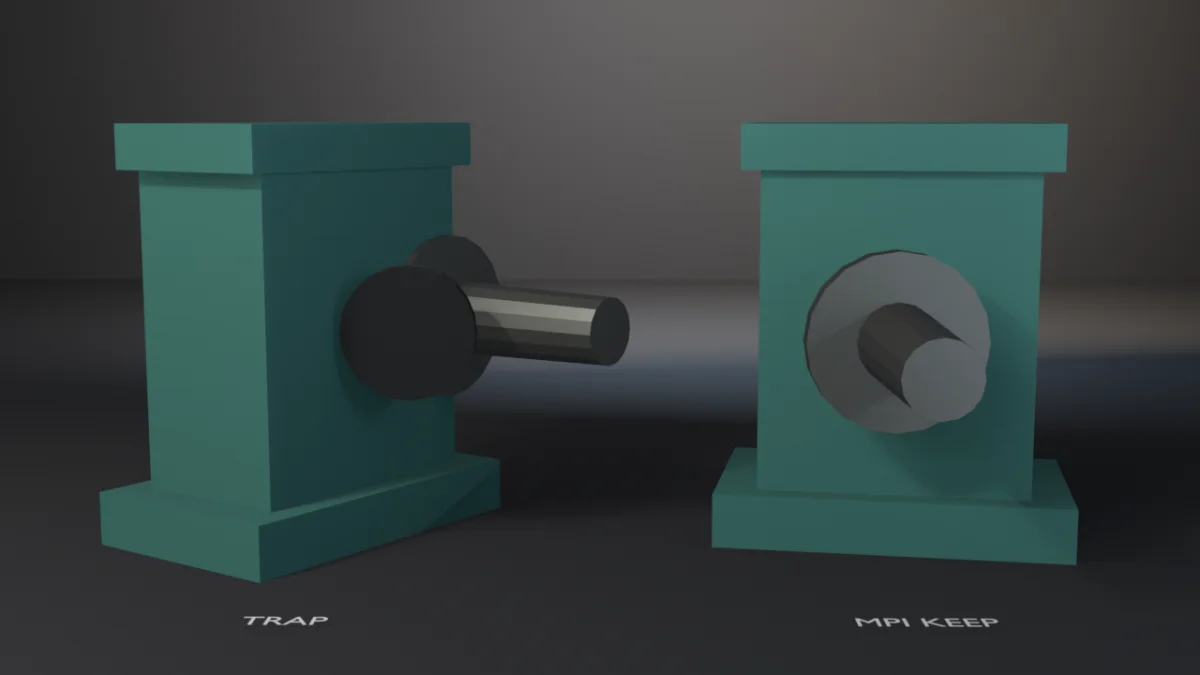
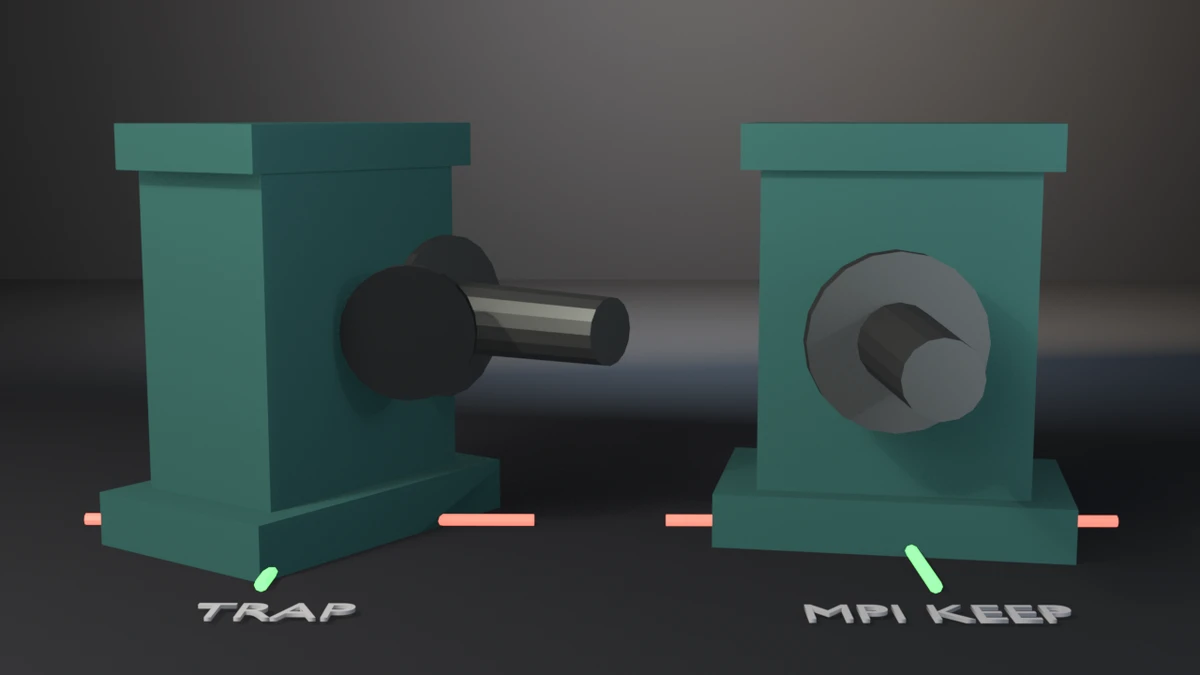
fix: prop-origin-transform presentation, visible origin axes
Render path only: the origin markers were buried in the plinth. The X and Y
stubs now cross under each base and exit it on the floor; labels are legible
at card size. Contract and exit codes unchanged on 4.5.11, 5.1.2 and 5.2.1.
Also regenerates the gallery index for all four items.

diff --git a/docs/gallery/prop-origin-transform/index.html b/docs/gallery/prop-origin-transform/index.html
@@ -16,13 +16,13 @@
   <meta property="og:image" content="https://tmhsdigital.github.io/Blender-Developer-Tools/gallery/assets/prop-origin-transform-hero.webp" />
   <meta property="og:image:width" content="1280" />
   <meta property="og:image:height" content="720" />
-  <meta property="og:image:alt" content="Two teal pedestals labelled TRAP and MPI KEEP: on the left a conduit fitting has jumped out of its socket, on the right it sits seated." />
+  <meta property="og:image:alt" content="Two teal pedestals labelled TRAP and MPI KEEP, origin axes crossing on the floor under each base: on the left a conduit fitting has jumped out of its socket, on the right it sits seated." />
   <meta property="og:site_name" content="Blender Developer Tools" />
   <meta name="twitter:card" content="summary_large_image" />
   <meta name="twitter:title" content="prop-origin-transform — Examples — Blender Developer Tools" />
   <meta name="twitter:description" content="Street pedestal origin-to-base-center + data-API scale apply + matrix_parent_inverse for a flanged conduit accessory. After bake: scale (1,1,1), local min.z==0, world AABB unchanged. Bare parent jumps the accessory off an empty mount socket; MPI keeps it seated." />
   <meta name="twitter:image" content="https://tmhsdigital.github.io/Blender-Developer-Tools/gallery/assets/prop-origin-transform-hero.webp" />
-  <meta name="twitter:image:alt" content="Two teal pedestals labelled TRAP and MPI KEEP: on the left a conduit fitting has jumped out of its socket, on the right it sits seated." />
+  <meta name="twitter:image:alt" content="Two teal pedestals labelled TRAP and MPI KEEP, origin axes crossing on the floor under each base: on the left a conduit fitting has jumped out of its socket, on the right it sits seated." />
   <style>
     /* fonts are deployed by the landing build (docs/fonts/) */
     @font-face { font-family: 'Barlow Condensed'; font-weight: 600; font-display: swap;
@@ -268,8 +268,8 @@
     <p>Street pedestal origin-to-base-center + data-API scale apply + matrix_parent_inverse for a flanged conduit accessory. After bake: scale (1,1,1), local min.z==0, world AABB unchanged. Bare parent jumps the accessory off an empty mount socket; MPI keeps it seated.</p>
   </header>
   <main id="main">
-    <button class="detail-hero" id="heroZoom" type="button" aria-label="View full size: Two teal pedestals labelled TRAP and MPI KEEP: on the left a conduit fitting has jumped out of its socket, on the right it sits seated.">
-      <img src="../assets/prop-origin-transform-hero.webp" alt="Two teal pedestals labelled TRAP and MPI KEEP: on the left a conduit fitting has jumped out of its socket, on the right it sits seated." width="1280" height="720" />
+    <button class="detail-hero" id="heroZoom" type="button" aria-label="View full size: Two teal pedestals labelled TRAP and MPI KEEP, origin axes crossing on the floor under each base: on the left a conduit fitting has jumped out of its socket, on the right it sits seated.">
+      <img src="../assets/prop-origin-transform-hero.webp" alt="Two teal pedestals labelled TRAP and MPI KEEP, origin axes crossing on the floor under each base: on the left a conduit fitting has jumped out of its socket, on the right it sits seated." width="1280" height="720" />
     </button>
     <p class="zoom-hint">Rendered headless by the example itself — click to zoom.</p>
     <div class="callout"><span class="tag">witnesses</span> Bare child.parent = parent teleports accessories off their mounts; skipping view_layer.update() before matrix_world, or leaving non-uniform scale / centered origin, breaks engine ingest placement.</div>
@@ -285,7 +285,7 @@
 <ul><li><strong>Stale <code>matrix_world</code>.</strong> After a location edit, <code>matrix_world</code> is unchanged until <code>view_layer.update()</code> (same half of the orrery contract).</li><li><strong>Scale apply via data API.</strong> Non-uniform scale baked into verts; <code>obj.scale == (1,1,1)</code> exactly afterward.</li><li><strong>Origin at base center.</strong> Local bbox <code>min.z == 0</code>, XY centered; world AABB delta across the bake is <strong>0</strong> (gate <code>1e-5</code>).</li><li><strong>Bare-parent trap.</strong> Parenting the accessory without MPI jumps it (~0.43 m measured); setting <code>matrix_parent_inverse</code> restores world location (err ~3e-8).</li></ul>
 <p><strong>What each check catches on failure:</strong> skipping scale apply leaves non-identity scale; skipping origin bake leaves <code>min.z ≈ -0.756</code>; skipping MPI leaves the accessory teleported.</p>
 <p><strong>Version witness:</strong> byte-identical numbers on Blender 4.5.11 LTS and 5.1.2.</p>
-<p>The render is a dual panel: left <strong>TRAP</strong> (bare parent — flanged conduit teleports off a deep shadowed mount socket) vs right <strong>MPI KEEP</strong> (same metal fitting seated in the socket), with emissive origin markers at each pedestal&#x27;s base. Accessory and pedestal stay in one material family so displacement — not color — carries the proof. Check closed forms are unchanged.</p>
+<p>The render is a dual panel: left <strong>TRAP</strong> (bare parent — flanged conduit teleports off a deep shadowed mount socket) vs right <strong>MPI KEEP</strong> (same metal fitting seated in the socket), with emissive origin markers at each pedestal&#x27;s base. The origin is inside the plinth, so the red X and green Y stubs are centred on it and run 1.7 m along the floor, exiting the plinth on both sides: where they cross, under the base, is the origin. The first cut drew 0.28 m stubs from the origin outward, all buried, and 0.11 m labels that vanished at card size; the labels are 0.21 m now. Accessory and pedestal stay in one material family so displacement — not color — carries the proof. Check closed forms are unchanged.</p>
 <h2>Run</h2>
 <pre><code>blender --background --python prop_origin_transform.py --
 blender --background --python prop_origin_transform.py -- --skip-mpi
@@ -670,7 +670,13 @@ JUMP_MIN = <span class="n">0.05</span>
 
 
 <span class="k">def</span> origin_marker(sc, loc):
-    <span class="s">&quot;&quot;&quot;Small emissive triad at the object origin — scene evidence, not a light.&quot;&quot;&quot;</span>
+    <span class="s">&quot;&quot;&quot;Emissive triad at the object origin — scene evidence, not a light.
+
+    The origin sits at the base centre, inside the plinth, so a bead alone is
+    buried. The X and Y stubs are centred on it and run long enough to exit
+    the plinth on both sides along the floor: where they cross, under the
+    pedestal, is the origin.
+    &quot;&quot;&quot;</span>
     mat = make_material(
         <span class="s">&quot;OriginMark&quot;</span>, (<span class="n">1.0</span>, <span class="n">0.55</span>, <span class="n">0.1</span>), rough=<span class="n">0.35</span>, metallic=<span class="n">0.0</span>,
         emit=(<span class="n">1.0</span>, <span class="n">0.6</span>, <span class="n">0.1</span>), estr=<span class="n">2.2</span>,
@@ -687,18 +693,19 @@ JUMP_MIN = <span class="n">0.05</span>
     ob.location = loc
     sc.collection.objects.link(ob)
     <span class="c"># Axis stubs</span>
-    <span class="k">for</span> axis, rgb, rot <span class="k">in</span> (
-        (<span class="s">&quot;X&quot;</span>, (<span class="n">1.0</span>, <span class="n">0.2</span>, <span class="n">0.15</span>), (<span class="n">0</span>, math.radians(<span class="n">90</span>), <span class="n">0</span>)),
-        (<span class="s">&quot;Y&quot;</span>, (<span class="n">0.2</span>, <span class="n">1.0</span>, <span class="n">0.25</span>), (math.radians(-<span class="n">90</span>), <span class="n">0</span>, <span class="n">0</span>)),
-        (<span class="s">&quot;Z&quot;</span>, (<span class="n">0.25</span>, <span class="n">0.45</span>, <span class="n">1.0</span>), (<span class="n">0</span>, <span class="n">0</span>, <span class="n">0</span>)),
+    <span class="k">for</span> axis, rgb, rot, depth <span class="k">in</span> (
+        (<span class="s">&quot;X&quot;</span>, (<span class="n">1.0</span>, <span class="n">0.2</span>, <span class="n">0.15</span>), (<span class="n">0</span>, math.radians(<span class="n">90</span>), <span class="n">0</span>), <span class="n">1.7</span>),
+        (<span class="s">&quot;Y&quot;</span>, (<span class="n">0.2</span>, <span class="n">1.0</span>, <span class="n">0.25</span>), (math.radians(-<span class="n">90</span>), <span class="n">0</span>, <span class="n">0</span>), <span class="n">1.7</span>),
+        (<span class="s">&quot;Z&quot;</span>, (<span class="n">0.25</span>, <span class="n">0.45</span>, <span class="n">1.0</span>), (<span class="n">0</span>, <span class="n">0</span>, <span class="n">0</span>), <span class="n">0.56</span>),
     ):
         ame = bpy.data.meshes.new(<span class="s">f&quot;</span><span class="s">Axis</span>{axis}<span class="s">&quot;</span>)
         abm = bmesh.new()
         <span class="k">try</span>:
             bmesh.ops.create_cone(
-                abm, cap_ends=<span class="k">True</span>, segments=<span class="n">8</span>, radius1=<span class="n">0.015</span>, radius2=<span class="n">0.015</span>, depth=<span class="n">0.28</span>,
+                abm, cap_ends=<span class="k">True</span>, segments=<span class="n">8</span>, radius1=<span class="n">0.022</span>, radius2=<span class="n">0.022</span>, depth=depth,
             )
-            bmesh.ops.translate(abm, vec=(<span class="n">0</span>, <span class="n">0</span>, <span class="n">0.14</span>), verts=abm.verts)
+            <span class="k">if</span> axis == <span class="s">&quot;Z&quot;</span>:
+                bmesh.ops.translate(abm, vec=(<span class="n">0</span>, <span class="n">0</span>, depth / <span class="n">2.0</span>), verts=abm.verts)
             abm.to_mesh(ame)
         <span class="k">finally</span>:
             abm.free()
@@ -707,7 +714,8 @@ JUMP_MIN = <span class="n">0.05</span>
         )
         ame.materials.append(am)
         aob = bpy.data.objects.new(<span class="s">f&quot;</span><span class="s">Axis</span>{axis}<span class="s">&quot;</span>, ame)
-        aob.location = loc
+        <span class="c"># X and Y are centred on the origin, lifted one radius onto the floor</span>
+        aob.location = loc + Vector((<span class="n">0.0</span>, <span class="n">0.0</span>, <span class="n">0.022</span> <span class="k">if</span> axis != <span class="s">&quot;Z&quot;</span> <span class="k">else</span> <span class="n">0.0</span>))
         aob.rotation_euler = rot
         sc.collection.objects.link(aob)
 
@@ -717,6 +725,7 @@ JUMP_MIN = <span class="n">0.05</span>
     cu.body = text
     cu.size = size
     cu.align_x = <span class="s">&quot;CENTER&quot;</span>
+    cu.extrude = <span class="n">0.006</span>
     ob = bpy.data.objects.new(text, cu)
     ob.location = loc
     sc.collection.objects.link(ob)
@@ -729,7 +738,7 @@ JUMP_MIN = <span class="n">0.05</span>
     floor_me = bpy.data.meshes.new(<span class="s">&quot;Floor&quot;</span>)
     bm = bmesh.new()
     <span class="k">try</span>:
-        bmesh.ops.create_grid(bm, x_segments=<span class="n">1</span>, y_segments=<span class="n">1</span>, size=<span class="n">30.0</span>)
+        bmesh.ops.create_grid(bm, x_segments=<span class="n">1</span>, y_segments=<span class="n">1</span>, size=<span class="n">60.0</span>)
         bm.to_mesh(floor_me)
     <span class="k">finally</span>:
         bm.free()
@@ -858,8 +867,9 @@ JUMP_MIN = <span class="n">0.05</span>
     origin_marker(sc, Vector(left.matrix_world.translation))
     origin_marker(sc, Vector(right.matrix_world.translation))
 
-    p_trap = placard(sc, <span class="s">&quot;TRAP&quot;</span>, (<span class="n">0.15</span>, -<span class="n">1.25</span>, <span class="n">0.02</span>), size=<span class="n">0.11</span>)
-    p_keep = placard(sc, <span class="s">&quot;MPI KEEP&quot;</span>, (<span class="n">2.1</span>, -<span class="n">1.25</span>, <span class="n">0.02</span>), size=<span class="n">0.11</span>)
+    <span class="c"># Big enough to read at card size; at 0.11 they vanished in the thumbnail.</span>
+    p_trap = placard(sc, <span class="s">&quot;TRAP&quot;</span>, (<span class="n">0.1</span>, -<span class="n">1.2</span>, <span class="n">0.02</span>), size=<span class="n">0.21</span>)
+    p_keep = placard(sc, <span class="s">&quot;MPI KEEP&quot;</span>, (<span class="n">2.15</span>, -<span class="n">1.2</span>, <span class="n">0.02</span>), size=<span class="n">0.21</span>)
 
     floor, wall = build_studio(sc)
 
@@ -951,7 +961,7 @@ JUMP_MIN = <span class="n">0.05</span>
   </main>
   <dialog class="lightbox" id="lightbox" aria-label="Full-size render">
     <button class="lightbox-close" type="button" autofocus>Close</button>
-    <img src="../assets/prop-origin-transform-hero.webp" alt="Two teal pedestals labelled TRAP and MPI KEEP: on the left a conduit fitting has jumped out of its socket, on the right it sits seated." />
+    <img src="../assets/prop-origin-transform-hero.webp" alt="Two teal pedestals labelled TRAP and MPI KEEP, origin axes crossing on the floor under each base: on the left a conduit fitting has jumped out of its socket, on the right it sits seated." />
   </dialog>
   <footer>
     <div class="statusbar">

diff --git a/docs/gallery/index.html b/docs/gallery/index.html
@@ -607,7 +607,7 @@
       </article>
       <article class="card" data-tags="export uv">
         <a class="card-media" href="gltf-export-roundtrip/" tabindex="-1" aria-hidden="true">
-          <img src="assets/gltf-export-roundtrip-hero.webp" alt="Two identical olive equipment crates with cyan light strips, labelled AUTHORED and ROUND-TRIP." loading="lazy" decoding="async" />
+          <img src="assets/gltf-export-roundtrip-hero.webp" alt="Two identical olive equipment crates with cyan light strips, both turned to show a side, labelled AUTHORED and ROUND-TRIP." loading="lazy" decoding="async" />
         </a>
         <div class="card-body">
           <h2><a href="gltf-export-roundtrip/">gltf-export-roundtrip</a></h2>
@@ -750,7 +750,7 @@
       </article>
       <article class="card" data-tags="transforms parenting game-pipeline">
         <a class="card-media" href="prop-origin-transform/" tabindex="-1" aria-hidden="true">
-          <img src="assets/prop-origin-transform-hero.webp" alt="Two teal pedestals labelled TRAP and MPI KEEP: on the left a conduit fitting has jumped out of its socket, on the right it sits seated." loading="lazy" decoding="async" />
+          <img src="assets/prop-origin-transform-hero.webp" alt="Two teal pedestals labelled TRAP and MPI KEEP, origin axes crossing on the floor under each base: on the left a conduit fitting has jumped out of its socket, on the right it sits seated." loading="lazy" decoding="async" />
         </a>
         <div class="card-body">
           <h2><a href="prop-origin-transform/">prop-origin-transform</a></h2>
@@ -915,7 +915,7 @@
       </article>
       <article class="card" data-tags="mesh export showcase">
         <a class="card-media" href="stone-well/" tabindex="-1" aria-hidden="true">
-          <img src="assets/stone-well-hero.webp" alt="A round stone well of grey blocks under a four-post wooden roof, with a bucket hanging inside." loading="lazy" decoding="async" />
+          <img src="assets/stone-well-hero.webp" alt="A round well of grey stones, each a slightly different shade, under a four-post grained wooden roof, with a bucket on rusted iron hoops hanging inside." loading="lazy" decoding="async" />
         </a>
         <div class="card-body">
           <h2><a href="stone-well/">stone-well</a></h2>
@@ -948,12 +948,12 @@
       </article>
       <article class="card" data-tags="mesh export showcase">
         <a class="card-media" href="market-stall/" tabindex="-1" aria-hidden="true">
-          <img src="assets/market-stall-hero.webp" alt="A timber market stall with a red and white striped awning and a counter with shelves." loading="lazy" decoding="async" />
+          <img src="assets/market-stall-hero.webp" alt="A grained timber market stall with diagonal side braces, a red and cream striped canvas awning and a counter with shelves." loading="lazy" decoding="async" />
         </a>
         <div class="card-body">
           <h2><a href="market-stall/">market-stall</a></h2>
           <p class="teaches">A procedural timber market stall through UVs, bake, LOD, collider, and Unity glTF, asserting recomputed budgets rather than an API contract.</p>
-          <p class="witnesses"><span class="tag">witnesses</span> Recomputed: 4324 tris, three materials with 34 faces per awning stripe slot, UVs in 0..1 with zero AABB overlap, outer AABB 1.389×1.011×1.740 m, grounded zmin, 4 wrap feet, brace-counter overlap 0, awning seat 4 mm, post plumb 0, LOD ratios in band, convex collider 58 tris, non-empty glTF. Hygiene all zero. --skip-decimate exits 9; --stray-vert 15; --lift-z/--short-feet 16; --low-brace 17; --float-awning 18; --rake-posts 19.</p>
+          <p class="witnesses"><span class="tag">witnesses</span> Recomputed: 4324 tris, three materials with 34 faces per awning stripe slot, UVs in 0..1 with zero AABB overlap, outer AABB 1.389×1.011×1.740 m, grounded zmin, 4 wrap feet, brace-counter overlap 0, both side braces seated 0.0418 m into their posts, awning seat 4 mm, post plumb 0, LOD ratios in band, convex collider 58 tris, non-empty glTF. Hygiene all zero. --skip-decimate exits 9; --stray-vert 15; --lift-z/--short-feet 16; --low-brace/--short-brace 17; --float-awning 18; --rake-posts 19.</p>
           <a class="card-link" href="market-stall/">View showcase piece<span class="sr-only"> market-stall</span> <span aria-hidden="true">&rarr;</span></a>
         </div>
       </article>

diff --git a/examples/prop-origin-transform/prop_origin_transform.py b/examples/prop-origin-transform/prop_origin_transform.py
@@ -366,7 +366,13 @@ def check(prop, acc, skip_mpi=False):
 
 
 def origin_marker(sc, loc):
-    """Small emissive triad at the object origin — scene evidence, not a light."""
+    """Emissive triad at the object origin — scene evidence, not a light.
+
+    The origin sits at the base centre, inside the plinth, so a bead alone is
+    buried. The X and Y stubs are centred on it and run long enough to exit
+    the plinth on both sides along the floor: where they cross, under the
+    pedestal, is the origin.
+    """
     mat = make_material(
         "OriginMark", (1.0, 0.55, 0.1), rough=0.35, metallic=0.0,
         emit=(1.0, 0.6, 0.1), estr=2.2,
@@ -383,18 +389,19 @@ def origin_marker(sc, loc):
     ob.location = loc
     sc.collection.objects.link(ob)
     # Axis stubs
-    for axis, rgb, rot in (
-        ("X", (1.0, 0.2, 0.15), (0, math.radians(90), 0)),
-        ("Y", (0.2, 1.0, 0.25), (math.radians(-90), 0, 0)),
-        ("Z", (0.25, 0.45, 1.0), (0, 0, 0)),
+    for axis, rgb, rot, depth in (
+        ("X", (1.0, 0.2, 0.15), (0, math.radians(90), 0), 1.7),
+        ("Y", (0.2, 1.0, 0.25), (math.radians(-90), 0, 0), 1.7),
+        ("Z", (0.25, 0.45, 1.0), (0, 0, 0), 0.56),
     ):
         ame = bpy.data.meshes.new(f"Axis{axis}")
         abm = bmesh.new()
         try:
             bmesh.ops.create_cone(
-                abm, cap_ends=True, segments=8, radius1=0.015, radius2=0.015, depth=0.28,
+                abm, cap_ends=True, segments=8, radius1=0.022, radius2=0.022, depth=depth,
             )
-            bmesh.ops.translate(abm, vec=(0, 0, 0.14), verts=abm.verts)
+            if axis == "Z":
+                bmesh.ops.translate(abm, vec=(0, 0, depth / 2.0), verts=abm.verts)
             abm.to_mesh(ame)
         finally:
             abm.free()
@@ -403,7 +410,8 @@ def origin_marker(sc, loc):
         )
         ame.materials.append(am)
         aob = bpy.data.objects.new(f"Axis{axis}", ame)
-        aob.location = loc
+        # X and Y are centred on the origin, lifted one radius onto the floor
+        aob.location = loc + Vector((0.0, 0.0, 0.022 if axis != "Z" else 0.0))
         aob.rotation_euler = rot
         sc.collection.objects.link(aob)
 
@@ -413,6 +421,7 @@ def placard(sc, text, loc, size=0.18):
     cu.body = text
     cu.size = size
     cu.align_x = "CENTER"
+    cu.extrude = 0.006
     ob = bpy.data.objects.new(text, cu)
     ob.location = loc
     sc.collection.objects.link(ob)
@@ -425,7 +434,7 @@ def build_studio(sc):
     floor_me = bpy.data.meshes.new("Floor")
     bm = bmesh.new()
     try:
-        bmesh.ops.create_grid(bm, x_segments=1, y_segments=1, size=30.0)
+        bmesh.ops.create_grid(bm, x_segments=1, y_segments=1, size=60.0)
         bm.to_mesh(floor_me)
     finally:
         bm.free()
@@ -554,8 +563,9 @@ def render_still(path, engine):
     origin_marker(sc, Vector(left.matrix_world.translation))
     origin_marker(sc, Vector(right.matrix_world.translation))
 
-    p_trap = placard(sc, "TRAP", (0.15, -1.25, 0.02), size=0.11)
-    p_keep = placard(sc, "MPI KEEP", (2.1, -1.25, 0.02), size=0.11)
+    # Big enough to read at card size; at 0.11 they vanished in the thumbnail.
+    p_trap = placard(sc, "TRAP", (0.1, -1.2, 0.02), size=0.21)
+    p_keep = placard(sc, "MPI KEEP", (2.15, -1.2, 0.02), size=0.21)
 
     floor, wall = build_studio(sc)
 

diff --git a/README.md b/README.md
@@ -990,7 +990,7 @@ still: DIRTY through-hole + loose-vert bead vs CLEAN manifold (same brass).
 </tr>
 <tr>
 <td width="46%" valign="middle">
-<a href="examples/prop-origin-transform/"><img src="examples/prop-origin-transform/preview.webp" alt="Prop origin transform: dual-panel TRAP vs MPI KEEP street pedestals with margins all around — left bare-parent conduit accessory teleports off its dark mount well, right accessory stays seated — proving scale apply, base origin, and matrix_parent_inverse" /></a>
+<a href="examples/prop-origin-transform/"><img src="examples/prop-origin-transform/preview.webp" alt="Prop origin transform: dual-panel TRAP vs MPI KEEP street pedestals with margins all around — left bare-parent conduit accessory teleports off its dark mount well, right accessory stays seated, origin axes crossing on the floor under each base — proving scale apply, base origin, and matrix_parent_inverse" /></a>
 </td>
 <td valign="middle">
 

diff --git a/examples/prop-origin-transform/README.md b/examples/prop-origin-transform/README.md
@@ -39,7 +39,11 @@ MPI leaves the accessory teleported.
 The render is a dual panel: left **TRAP** (bare parent — flanged conduit
 teleports off a deep shadowed mount socket) vs right **MPI KEEP** (same metal
 fitting seated in the socket), with emissive origin markers at each pedestal's
-base. Accessory and pedestal stay in one material family so displacement — not
+base. The origin is inside the plinth, so the red X and green Y stubs are
+centred on it and run 1.7 m along the floor, exiting the plinth on both
+sides: where they cross, under the base, is the origin. The first cut drew
+0.28 m stubs from the origin outward, all buried, and 0.11 m labels that
+vanished at card size; the labels are 0.21 m now. Accessory and pedestal stay in one material family so displacement — not
 color — carries the proof. Check closed forms are unchanged.
 
 ## Run
